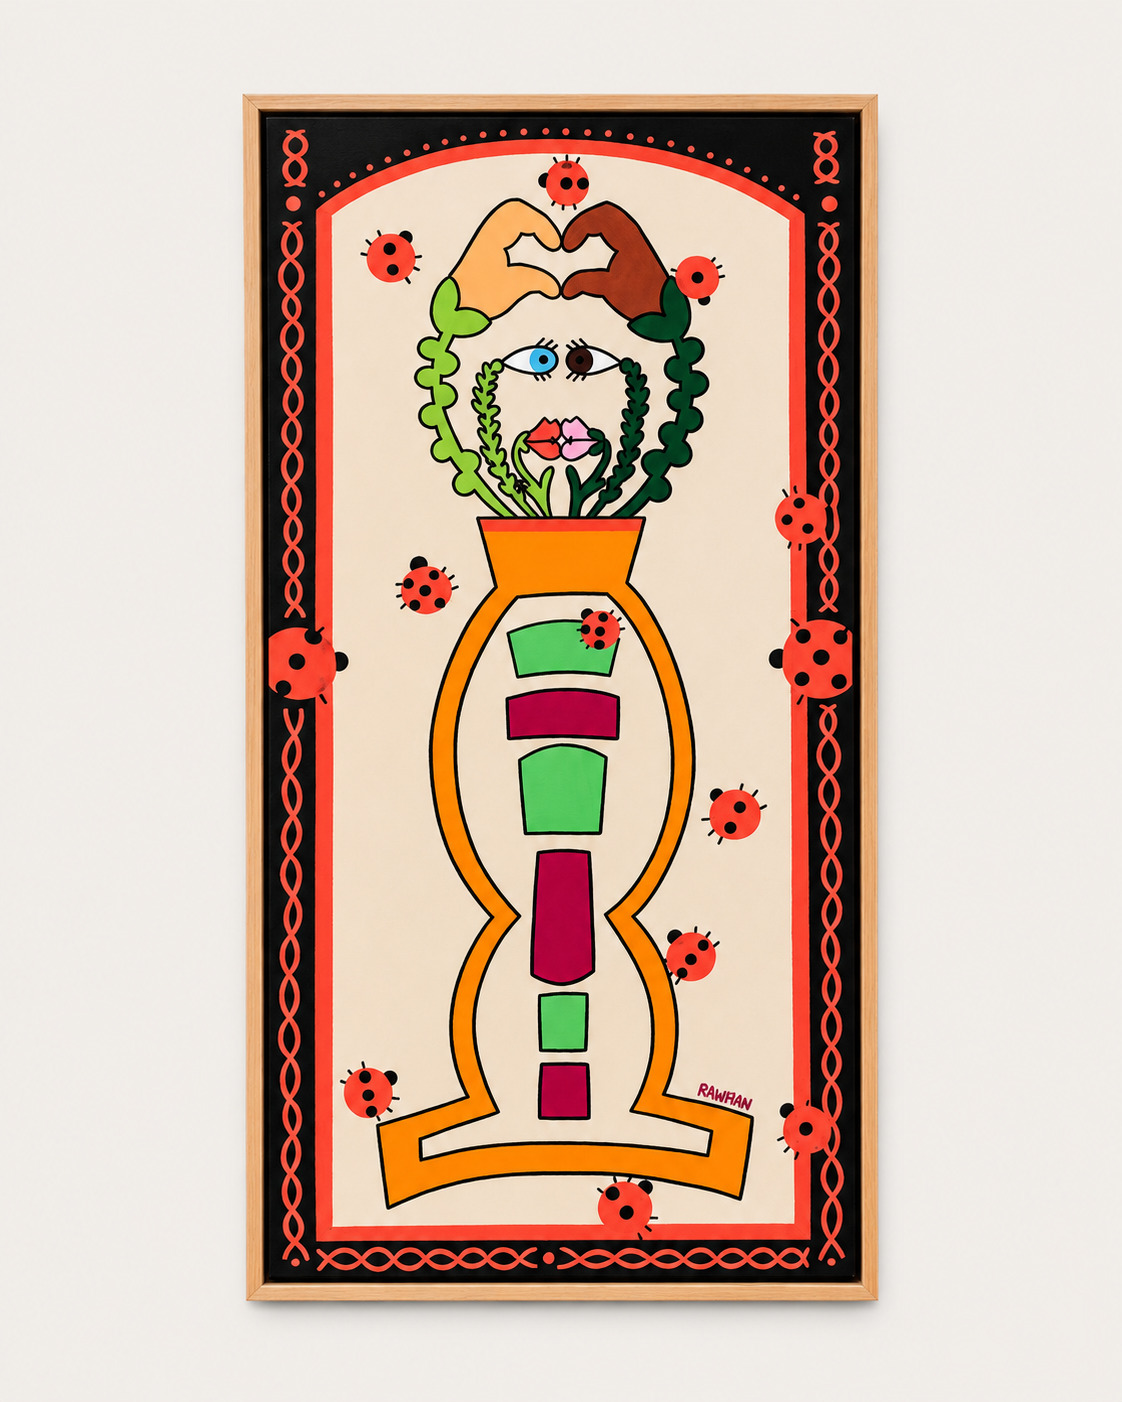
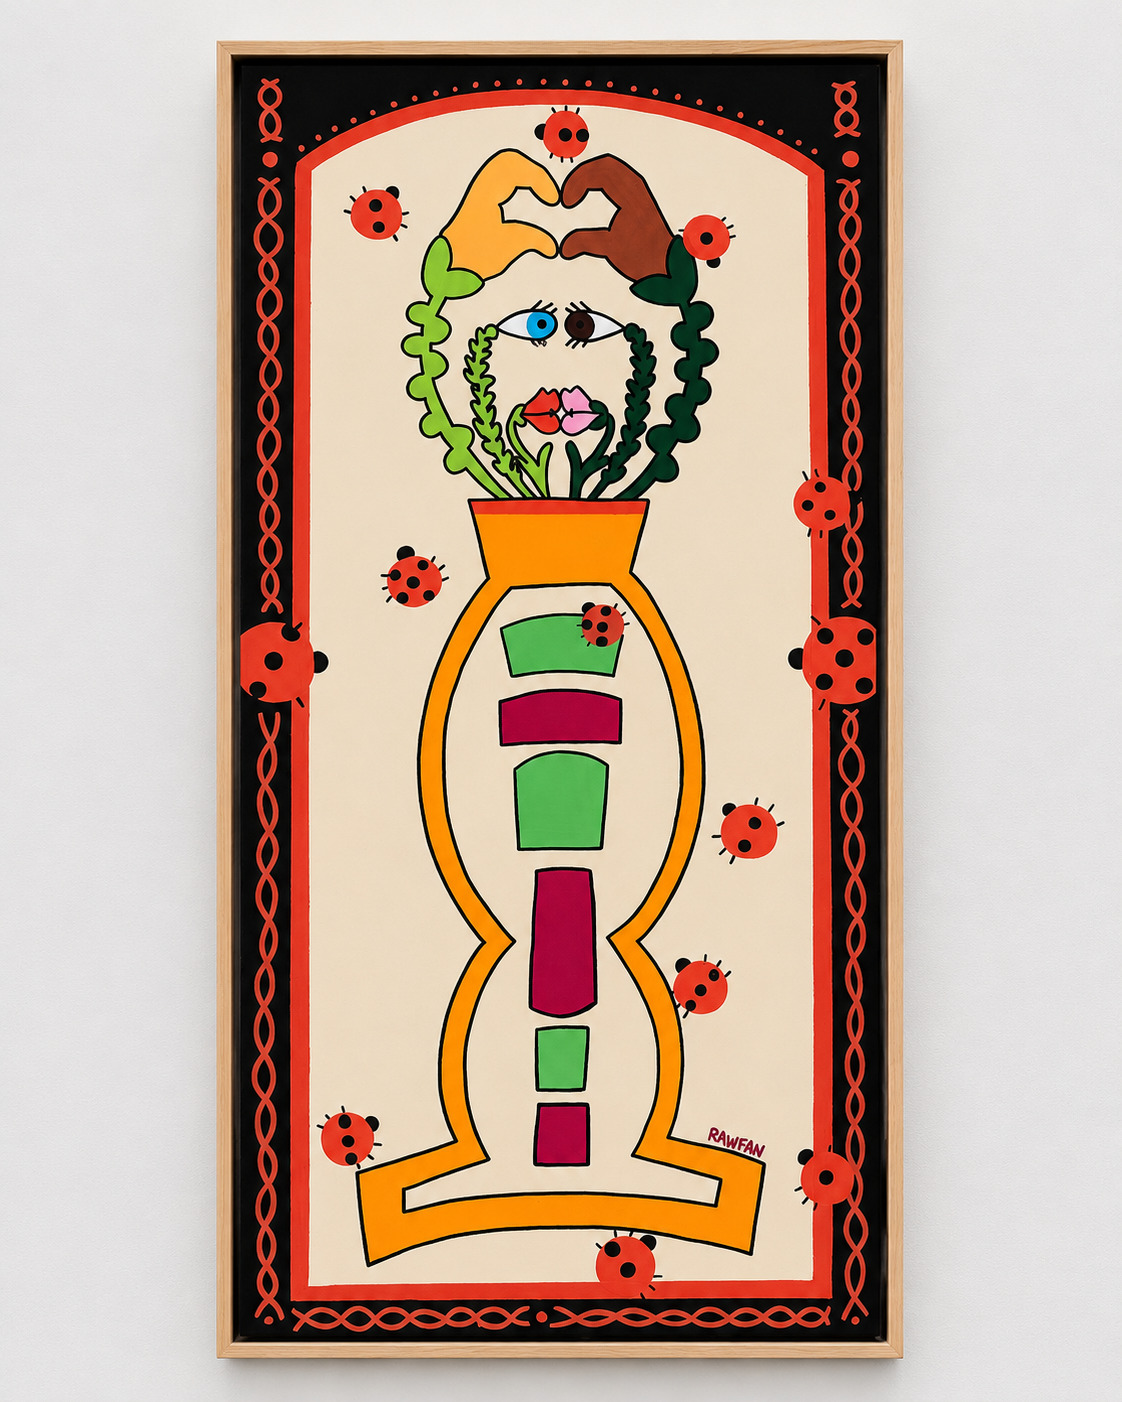
Use the latest Flowerpot of Love photo

diff --git a/app.js b/app.js
@@ -6,7 +6,7 @@ const ARTWORKS_DATA = [
         id: 17,
         title: "The Flowerpot of Love | 사랑의 화분",
         artist: "Rawfaw",
-        image: "assets/flowerpot-of-love.jpg?v=2",
+        image: "assets/flowerpot-of-love.jpg?v=3",
         price: "Price on request",
         priceKrw: "문의바람",
         category: "ORIGINAL",
